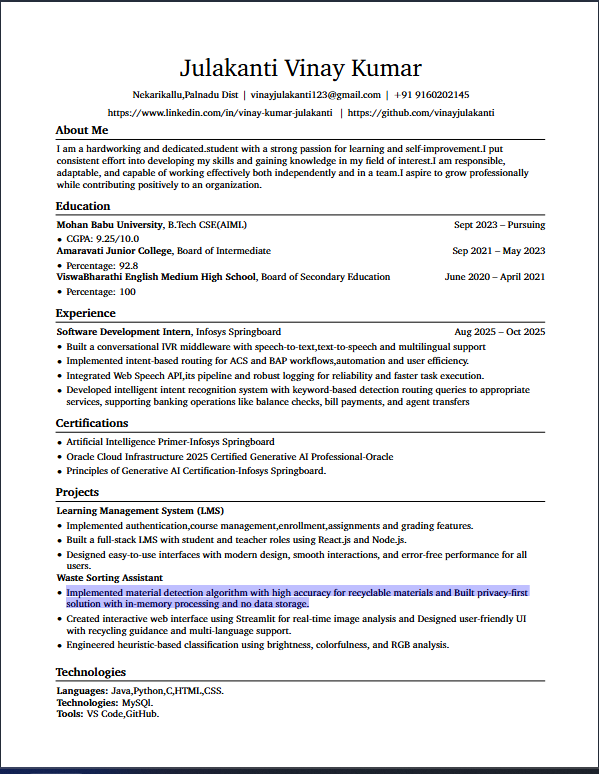
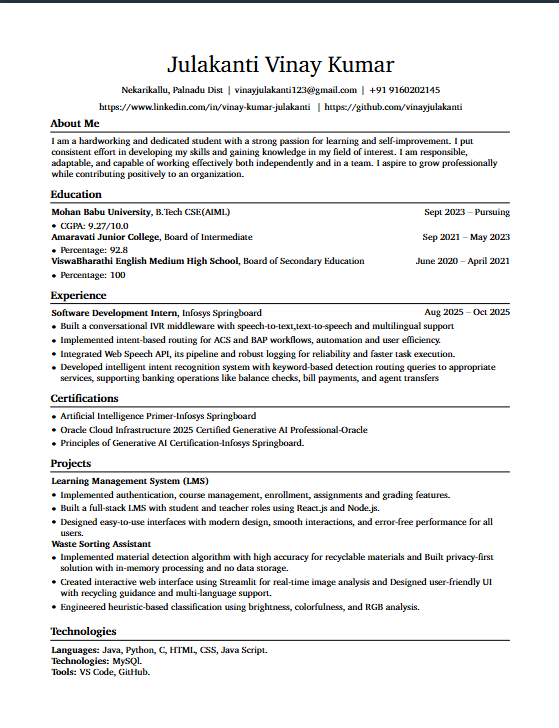
Updated portfolio website

diff --git a/resume.html b/resume.html
@@ -4,7 +4,7 @@
   <meta charset="UTF-8">
   <meta name="viewport" content="width=device-width, initial-scale=1.0">
 
-  <title>Julakanti Vinay Kumar Portfolio</title>
+  <title>Julakanti Vinay Kumar Resume</title>
 
   <style>
 
@@ -91,10 +91,25 @@
       border-radius:5px;
       font-weight:bold;
       transition:0.3s;
+      display:inline-block;
     }
 
     .btn:hover{
       background:white;
+    }
+
+    .btn.outline{
+      background:transparent;
+      color:#00ffd5;
+      border:1px solid #00ffd5;
+    }
+
+    .hero-actions{
+      display:flex;
+      gap:15px;
+      justify-content:center;
+      flex-wrap:wrap;
+      margin-top:20px;
     }
 
     /* SECTIONS */
@@ -238,15 +253,16 @@
 
   <section class="hero">
 
-    <h1>Julakanti Vinay Kumar</h1>
+    <h1>Resume — Julakanti Vinay Kumar</h1>
 
     <p>
-      Full Stack Developer | AI/ML Enthusiast | Problem Solver
+      Full Stack Developer | AI/ML Enthusiast | Software Engineering Intern
     </p>
 
-    <a href="#contact" class="btn">
-      Contact Me
-    </a>
+    <div class="hero-actions">
+      <a href="resume.pdf" class="btn">Download PDF</a>
+      <a href="#contact" class="btn outline">Contact Me</a>
+    </div>
 
   </section>
 
@@ -259,10 +275,9 @@
     <div class="about">
 
       <p>
-        I am a hardworking and dedicated student with a strong passion
-        for learning and self-improvement. I consistently work on developing
-        my technical skills and gaining practical experience in software
-        development and Artificial Intelligence.
+        Motivated CSE-AIML student with hands-on experience building AI-driven web solutions,
+        conversational IVR systems, and full-stack applications. I combine strong problem solving,
+        fast learning, and practical implementation skills in Python, JavaScript, React, and cloud-native AI tools.
       </p>
 
     </div>
